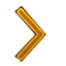
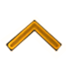
更新 Apoyo 和 Retirar 组件的样式，调整箭头图标的旋转角度，新增右箭头图标样式。

Changed region(s): [[0.0606, 0.0606, 0.9394, 0.9394]]

diff --git a/src/views/Apoyo.vue b/src/views/Apoyo.vue
@@ -103,4 +103,20 @@ function goBack() {
 :deep(.van-collapse-item--border:after){
     border: none;
 }
+
+:deep(.van-cell__right-icon){
+   &::before{
+    content: '';
+    display: block;
+    width: 66px;
+    height: 66px;
+    background: url('./images/apoyo/right_arrow.png') no-repeat;
+    background-size: 100% 100%;
+    transform: rotate(0);
+   }
+}
+
+:deep(.van-collapse-item__title--expanded .van-cell__right-icon:before){
+    transform: rotate(180deg);
+}
 </style>

diff --git a/src/assets/scss/pages/apoyo.scss b/src/assets/scss/pages/apoyo.scss
@@ -6,6 +6,6 @@
         background: url('./images/apoyo/arrow.png') no-repeat;
         content: '';
         background-size: 100% 100%;
-        transform: rotate(180deg);
+        transform: rotate(270deg);
     }
 }

diff --git a/src/assets/scss/pages/retirar.scss b/src/assets/scss/pages/retirar.scss
@@ -6,7 +6,7 @@
         background: url('./images/apoyo/arrow.png') no-repeat;
         background-size: contain;
         content: '';
-        transform: rotate(180deg);
+        transform: rotate(270deg);
     }
 }
 
